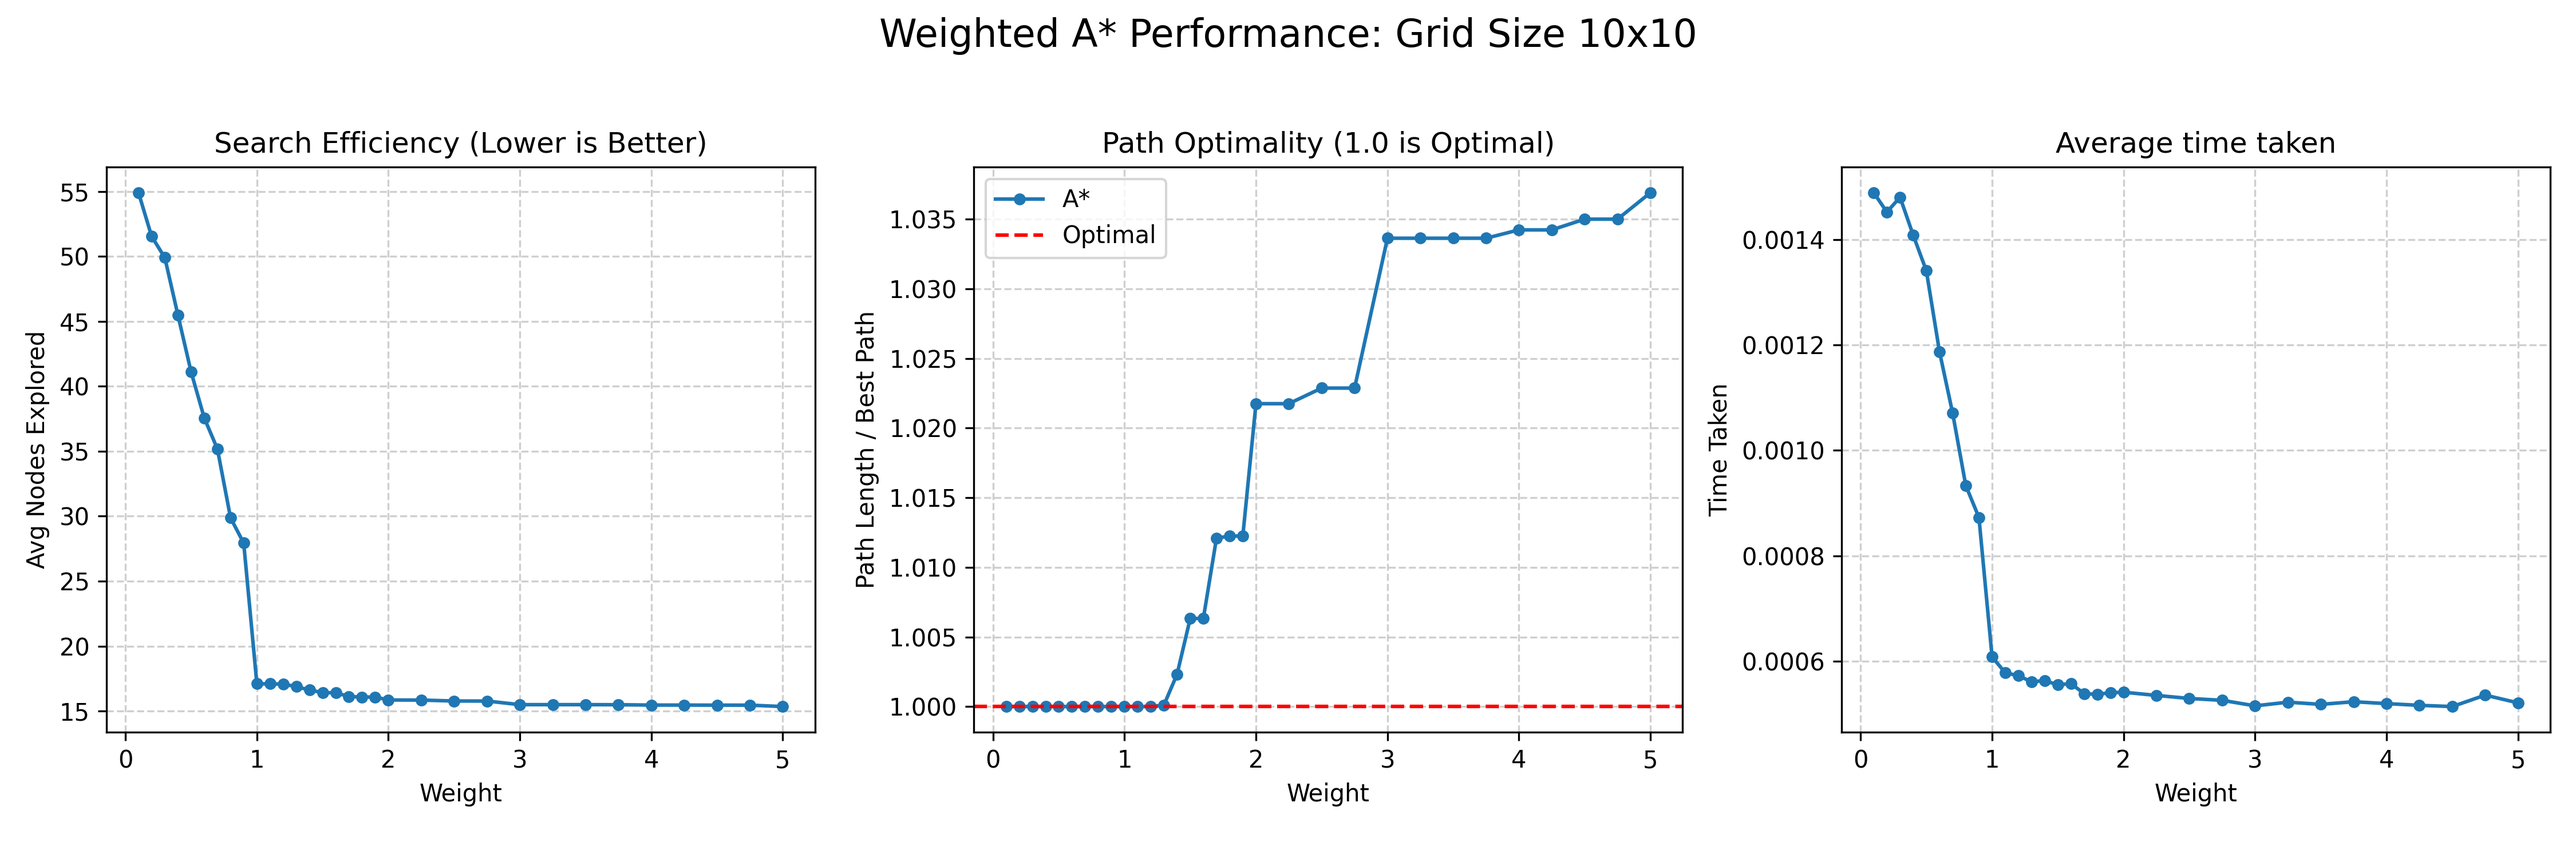
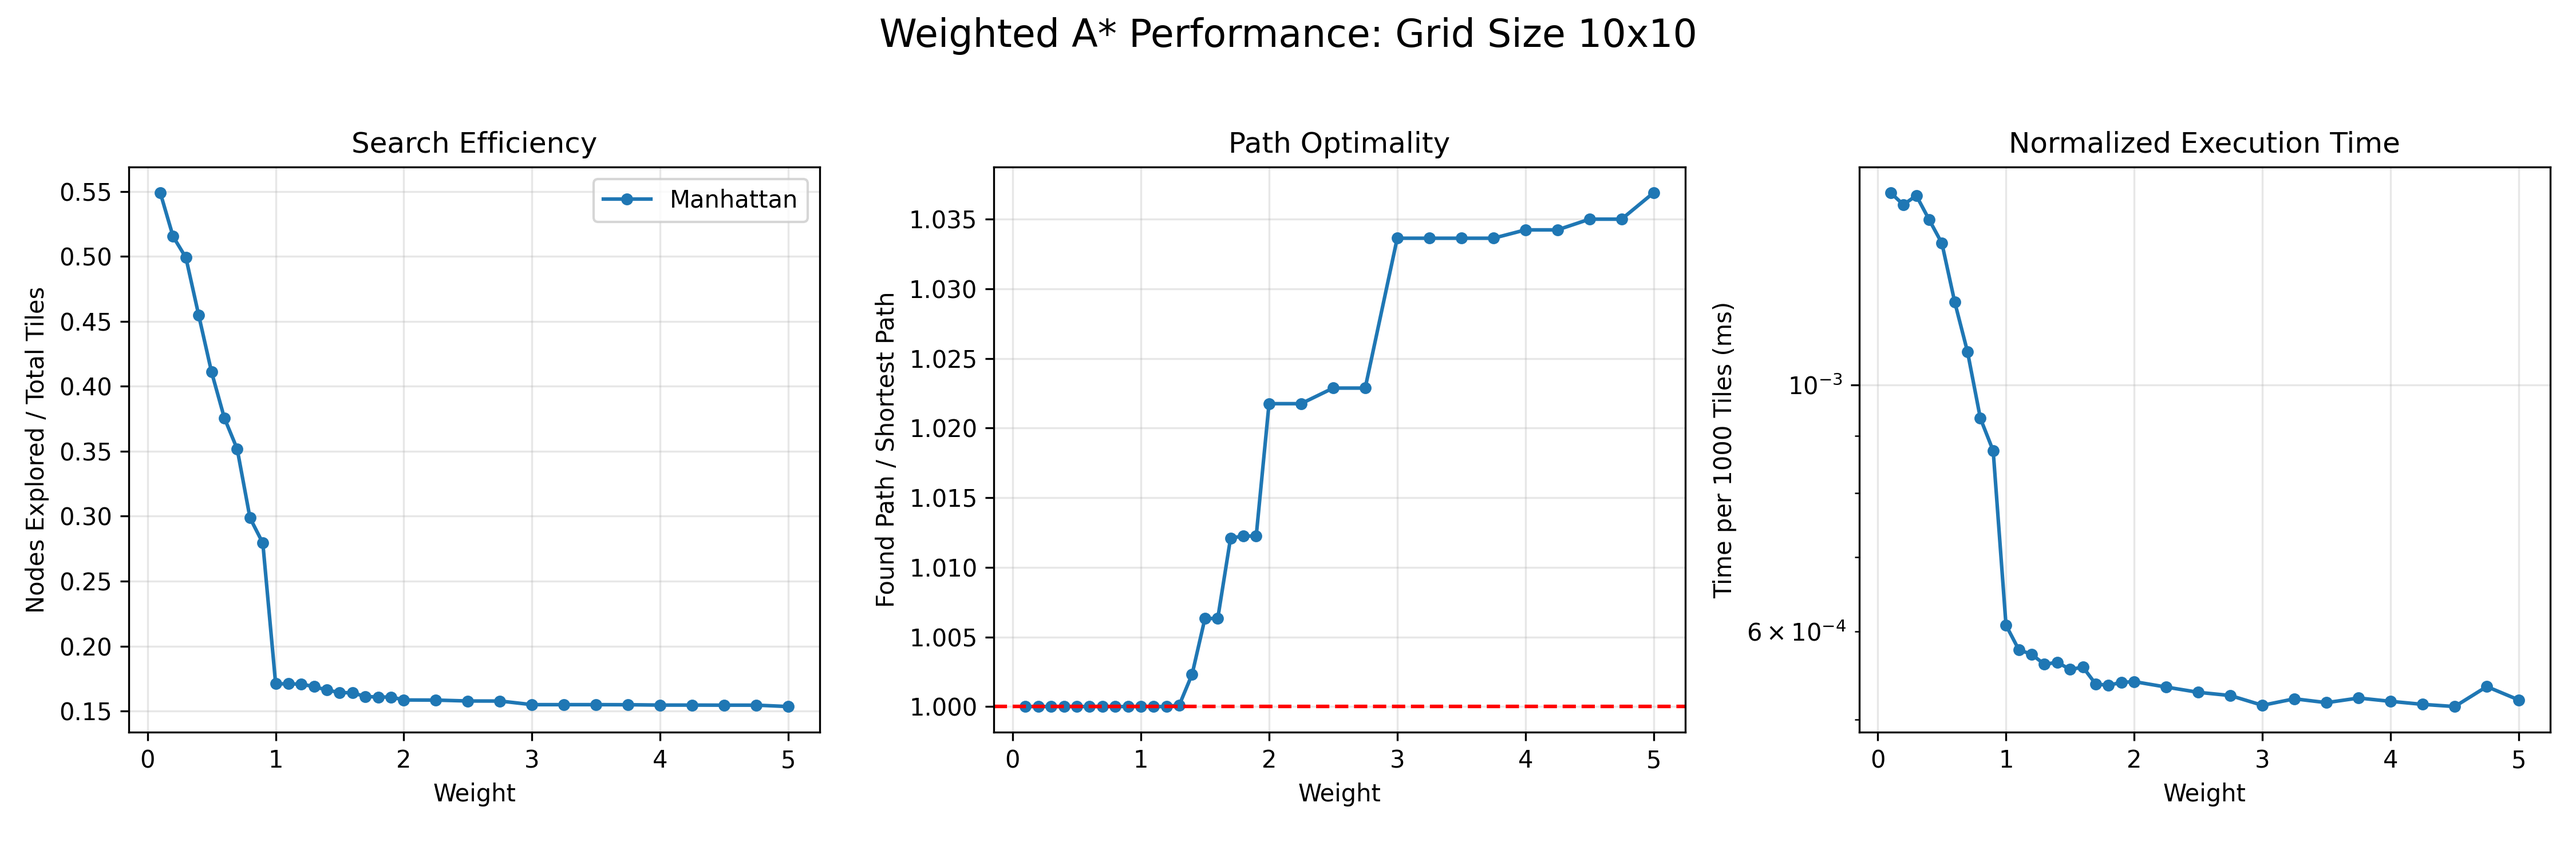
Final

diff --git a/home/analysis.py b/home/analysis.py
@@ -46,11 +46,14 @@ def load_and_plot(file_path):
         opt_all.append(opt_man)
         time_all.append(time_man)
 
+        dim = size_label.split("x")
+        total_tiles = int(dim[0]) * int(dim[1])
+
 
 
         for w in weights:
             # Average nodes explored at this weight
-            n_m = np.mean([t.nodes_exploreds_man[w] for t in trials])
+            n_m = np.mean([t.nodes_exploreds_man[w] / total_tiles for t in trials])
             nodes_man.append(n_m)
 
             # Average optimality ratio (1.0 is perfect)
@@ -66,26 +69,28 @@ def load_and_plot(file_path):
 
         # Plot Efficiency (Nodes Explored)
         ax1.plot(weights, nodes_man, label='Manhattan', marker='o', markersize=4)
-        ax1.set_title("Search Efficiency (Lower is Better)")
-        ax1.set_xlabel("Weight")
-        ax1.set_ylabel("Avg Nodes Explored")
-        ax1.grid(True, linestyle='--', alpha=0.6)
+        ax1.set_title("Search Efficiency")
+        ax1.set_ylabel("Nodes Explored / Total Tiles")
 
         # Plot Optimality (Path Length Ratio)
         ax2.plot(weights, opt_man, label='A*', marker='o', markersize=4)
         ax2.axhline(y=1.0, color='r', linestyle='--', label='Optimal')
-        ax2.set_title("Path Optimality (1.0 is Optimal)")
-        ax2.set_xlabel("Weight")
-        ax2.set_ylabel("Path Length / Best Path")
-        ax2.legend()
-        ax2.grid(True, linestyle='--', alpha=0.6)
+        ax2.set_title("Path Optimality")
+        ax2.set_ylabel("Found Path / Shortest Path")
 
         # Plot Time taken
         ax3.plot(weights, time_man, label='Manhattan', marker='o', markersize=4)
-        ax3.set_title("Average time taken")
-        ax3.set_xlabel("Weight")
-        ax3.set_ylabel("Time Taken")
-        ax3.grid(True, linestyle='--', alpha=0.6)
+        ax3.set_title("Normalized Execution Time")
+        ax3.set_ylabel("Time per 1000 Tiles (ms)")
+        ax3.set_yscale('log')
+
+        for ax in [ax1, ax2, ax3]:
+            ax.set_xlabel("Weight")
+            ax.grid(True, alpha=0.3)
+            # Optional: zoom in on the interesting part of the X axis
+            # ax.set_xlim(0.8, 5.0) 
+
+        ax1.legend(markerscale=1)
 
         plt.tight_layout(rect=[0, 0.03, 1, 0.95])
 
@@ -106,25 +111,25 @@ def load_and_plot(file_path):
         ax3.plot(weights, time_all[i], label=size_label, marker='o', markersize=4)
     
     # Plot Efficiency (Nodes Explored)
-    ax1.set_title("Search Efficiency (Lower is Better)")
-    ax1.set_xlabel("Weight")
-    ax1.set_ylabel("Avg Nodes Explored")
+    ax1.set_title("Search Efficiency")
+    ax1.set_ylabel("Nodes Explored / Total Tiles")
     ax1.grid(True, linestyle='--', alpha=0.6)
 
     # Plot Optimality (Path Length Ratio)
     ax2.axhline(y=1.0, color='r', linestyle='--', label='Optimal')
-    ax2.set_title("Path Optimality (1.0 is Optimal)")
-    ax2.set_xlabel("Weight")
-    ax2.set_ylabel("Path Length / Best Path")
+    ax2.set_title("Path Optimality")
+    ax2.set_ylabel("Found Path / Shortest Path")
     ax2.legend()
-    ax2.grid(True, linestyle='--', alpha=0.6)
 
     # Plot Time taken
     ax3.set_title("Average time taken")
     ax3.set_yscale('log')
-    ax3.set_xlabel("Weight")
     ax3.set_ylabel("Time Taken")
     ax3.grid(True, linestyle='--', alpha=0.6)
+
+    for ax in [ax1, ax2, ax3]:
+        ax.set_xlabel("Weight")
+        ax.grid(True, alpha=0.3)
 
     plt.tight_layout(rect=[0, 0.03, 1, 0.95])
 
@@ -180,24 +185,24 @@ def load_and_plot(file_path):
     ax3.plot(weights, time_wavg, label='A*', marker='o', markersize=4)
 
     # Plot Efficiency (Nodes Explored)
-    ax1.set_title("Search Efficiency (Lower is Better)")
-    ax1.set_xlabel("Weight")
-    ax1.set_ylabel("Avg Nodes Explored")
-    ax1.grid(True, linestyle='--', alpha=0.6)
+    ax1.set_title("Search Efficiency")
+    ax1.set_ylabel("Nodes Explored / Total Tiles")
 
     # Plot Optimality (Path Length Ratio)
     ax2.axhline(y=1.0, color='r', linestyle='--', label='Optimal')
-    ax2.set_title("Path Optimality (1.0 is Optimal)")
-    ax2.set_xlabel("Weight")
-    ax2.set_ylabel("Path Length / Best Path")
+    ax2.set_title("Path Optimality")
+    ax2.set_ylabel("Found Path / Shortest Path")
     ax2.legend()
-    ax2.grid(True, linestyle='--', alpha=0.6)
 
     # Plot Time taken
     ax3.set_title("Average time taken")
-    ax3.set_xlabel("Weight")
+    ax3.set_yscale('log')
     ax3.set_ylabel("Time Taken")
-    ax3.grid(True, linestyle='--', alpha=0.6)
+
+    for ax in [ax1, ax2, ax3]:
+        ax.set_xlabel("Weight")
+        ax.grid(True, alpha=0.3)
+
 
     plt.tight_layout(rect=[0, 0.03, 1, 0.95])
 

diff --git a/home/analysis_scatter.py b/home/analysis_scatter.py
@@ -61,7 +61,7 @@ def load_and_plot(file_path):
                 node_ratio = nodes / total_tiles
                 opt_ratio = path_len / trial.best_path_len if trial.best_path_len > 0 else 1
                 # Time per 1000 tiles to make the number readable
-                norm_time = (time_val / total_tiles) * 1000 
+                norm_time = time_val
 
                 # Add to scatter lists
                 scatter_w.append(weight)
@@ -81,7 +81,7 @@ def load_and_plot(file_path):
 
         # --- Plotting ---
         fig, (ax1, ax2, ax3) = plt.subplots(1, 3, figsize=(18, 6))
-        fig.suptitle("Weighted A* Performance Distribution (All Maze Sizes)", fontsize=16)
+        fig.suptitle(f"Weighted A* Performance Distribution {size_label}", fontsize=16)
 
         # 1. Efficiency Scatter
         ax1.scatter(scatter_w, scatter_nodes, alpha=0.1, s=1, color='blue', label='Individual Trial')
@@ -99,8 +99,8 @@ def load_and_plot(file_path):
         # 3. Time Scatter
         ax3.scatter(scatter_w, scatter_time, alpha=0.1, s=1, color='purple')
         ax3.plot(weights, time_means, color='red', linewidth=2)
-        ax3.set_title("Normalized Execution Time")
-        ax3.set_ylabel("Time per 1000 Tiles (ms)")
+        ax3.set_title("Execution Time")
+        ax3.set_ylabel("Time")
         ax3.set_yscale('log') # Log scale is still helpful for time variance
 
         for ax in [ax1, ax2, ax3]:
